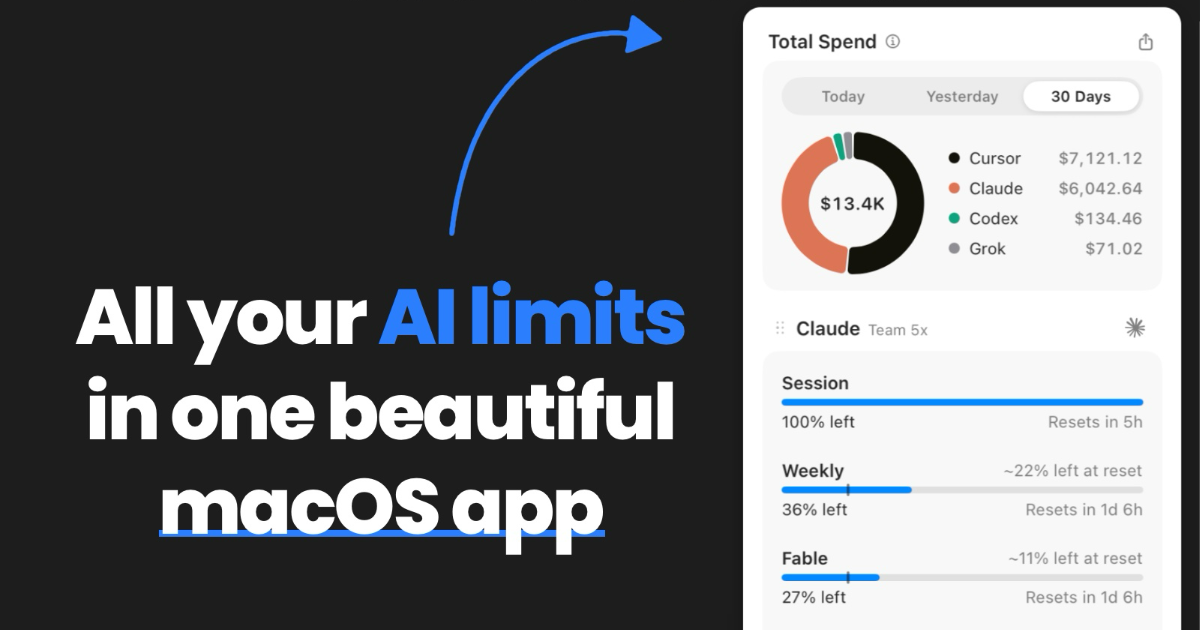
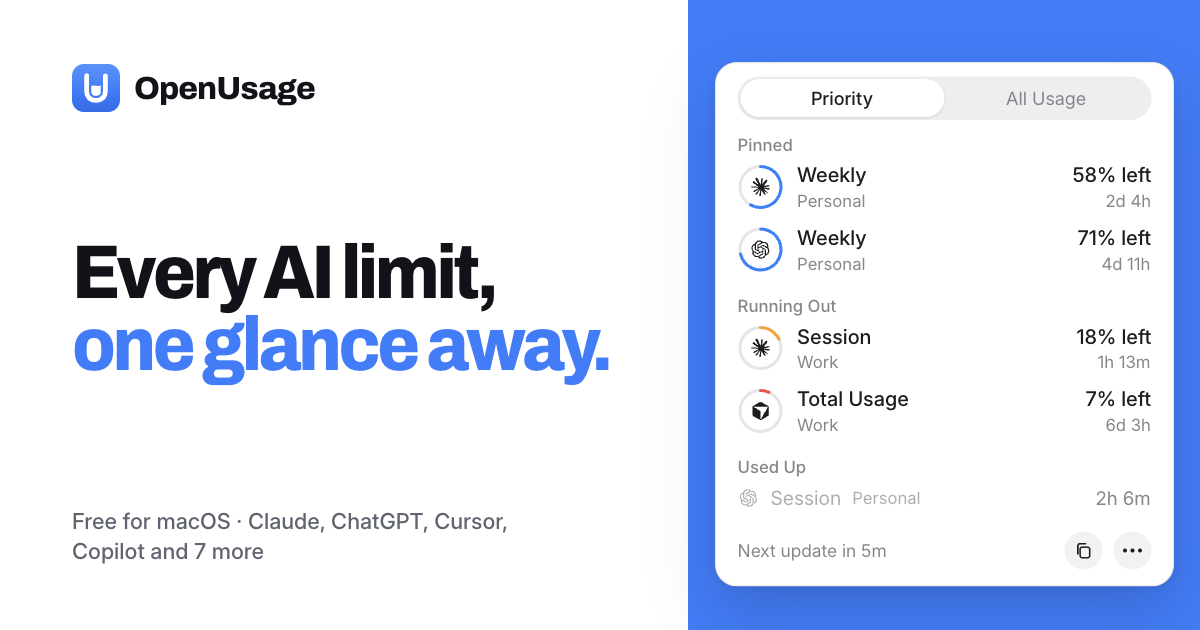
feat: match the site to 0.8.0 (#5)
* feat: match the site to 0.8.0

New OG and Twitter image, favicon and footer logo with the new app icon, features rewritten for 0.8.0, and the CLI section without the removed local API.

* fix: correct two feature claims

* refactor: apply review trims

Drop the unused align prop, focus the video in play(), inline AppMark, share one external constant, and stop exporting Release.

---------

diff --git a/app/page.tsx b/app/page.tsx
@@ -6,8 +6,8 @@ import { TrackedLink } from "@/components/tracked-link";
 import { DownloadButtons } from "@/components/download-buttons";
 import { ApiExample } from "@/components/api-example";
 import { Maintainers } from "@/components/maintainers";
-import { Logo, Marker, Tint } from "@/components/brand";
-import { cn } from "@/lib/utils";
+import { AppLogo, Marker, Tint } from "@/components/brand";
+import { cn, external } from "@/lib/utils";
 import { secondaryButtonClass } from "@/lib/button-styles";
 import {
   RELEASES_URL,
@@ -21,28 +21,28 @@ import {
 
 const FEATURES = [
   {
-    title: "Total Spend at a glance",
-    body: "See what Claude, Codex, Cursor and Grok cost today, yesterday or over 30 days, all in one ring.",
+    title: "What's running out, first",
+    body: "Priority lists the limits running low, soonest to run out at your pace first, then what's used up and which accounts need you.",
   },
   {
-    title: "Know before you run out",
-    body: "Pace markers and flame warnings tell you when you're burning too fast, and exactly when you'll hit the wall.",
-  },
-  {
-    title: "Pinned to your menu bar",
-    body: "Star up to two metrics per provider. Just look up and know where you stand.",
+    title: "Right in your menu bar",
+    body: "The limits closest to running out sit in the menu bar on their own, up to five. Just look up and know where you stand.",
   },
   {
     title: "Arranged your way",
-    body: "Turn providers and metrics on or off, drag them into order, and tuck the rest behind a tap.",
+    body: "Pin the metrics you care about, hide the rest, and drag accounts and metrics into your order.",
   },
   {
-    title: "Every account, every Mac",
-    body: "Track several Claude and Codex accounts side by side, with usage history synced over iCloud.",
+    title: "Every account, side by side",
+    body: "Add every Claude, ChatGPT or Cursor account you pay for, personal and work, and give each one a name.",
   },
   {
-    title: "No login, no leaks",
-    body: "It reads the credentials already on your Mac, and hides your numbers while you share your screen.",
+    title: "A heads-up before you run out",
+    body: "Get a notification when a limit drops under 30% left, and hover a bar to see where your pace lands at reset.",
+  },
+  {
+    title: "Your keys stay yours",
+    body: "Sign in to each account inside the app. OpenUsage never reads other tools' credentials, and it can hide your usage from the menu bar while you share your screen.",
   },
 ];
 
@@ -52,8 +52,6 @@ const FOOTER_LINKS = [
   { event: "footer_twitter_clicked", href: "https://itsbyrob.in/x", label: "X" },
   { event: "footer_newsletter_clicked", href: "https://robinebers.com", label: "Newsletter" },
 ];
-
-const external = { target: "_blank", rel: "noopener noreferrer" } as const;
 
 export default async function Home() {
   const [stable, beta, contributors] = await Promise.all([
@@ -99,7 +97,7 @@ export default async function Home() {
         </div>
       </section>
 
-      {/* ── Local API + CLI ── */}
+      {/* ── CLI ── */}
       <section className="border-t border-line px-gutter py-[clamp(56px,7vw,88px)]">
         <div className="mx-auto grid max-w-[1240px] overflow-hidden rounded-[20px] border border-line lg:grid-cols-[1fr_1.1fr]">
           <div className="flex flex-col gap-5 border-b border-line p-[clamp(28px,4vw,56px)] lg:border-r lg:border-b-0">
@@ -109,15 +107,12 @@ export default async function Home() {
             <p className="text-pretty text-[clamp(17px,1.8vw,20px)] leading-normal">
               Think of it like a weather station. OpenUsage does all the
               measuring. Your status line, your editor, your agents? They just
-              read the forecast through a <Tint>local API</Tint> or the{" "}
-              <Tint>openusage</Tint> command. No tokens, no auth, no setup.
+              read the forecast with the <Tint>openusage</Tint> command, as JSON.
+              No tokens, no network calls.
             </p>
             <div className="mt-auto flex flex-col gap-1.5 font-mono text-[14px]">
               <p>
-                <span className="text-muted">$ </span>curl{" "}
-                <a href="http://localhost:6736/v1/limits" {...external} className="underline decoration-line underline-offset-4 hover:text-brand">
-                  localhost:6736/v1/limits
-                </a>
+                <span className="text-muted">$ </span>openusage
               </p>
               <p>
                 <span className="text-muted">$ </span>openusage claude
@@ -169,7 +164,7 @@ export default async function Home() {
             <Marker>by surprise.</Marker>
           </h2>
           <div className="flex w-full max-w-xl flex-col items-center gap-3.5">
-            <DownloadButtons eventPrefix="cta" align="center" {...downloads} />
+            <DownloadButtons eventPrefix="cta" {...downloads} />
             <p className="text-[15px] text-muted">
               Requires macOS 15+
               {downloads.stableVersion ? <> &middot; v{downloads.stableVersion}</> : null} &middot; MIT License
@@ -180,7 +175,7 @@ export default async function Home() {
 
       {/* ── Footer ── */}
       <footer className="flex flex-col items-center gap-3.5 border-t border-line px-gutter py-8 text-sm font-medium text-muted">
-        <Logo className="text-[17px] text-ink" />
+        <AppLogo />
         <div className="flex flex-wrap justify-center gap-x-6 gap-y-2.5">
           {FOOTER_LINKS.map((link) => (
             <TrackedLink key={link.label} event={link.event} href={link.href} {...external} className="hover:text-brand">

diff --git a/components/brand.tsx b/components/brand.tsx
@@ -1,14 +1,4 @@
-import { GaugeIcon, OpenUsageIcon } from "@/lib/icons";
-import { cn } from "@/lib/utils";
-
-export function Logo({ className }: { className?: string }) {
-  return (
-    <span className={cn("inline-flex items-center gap-2", className)}>
-      <GaugeIcon className="h-[1.15em] w-[1.15em] text-brand" />
-      <span className="font-extrabold tracking-[-.03em]">OpenUsage</span>
-    </span>
-  );
-}
+import { OpenUsageIcon } from "@/lib/icons";
 
 /** Marker band behind a headline phrase. */
 export function Marker({ children }: { children: React.ReactNode }) {
@@ -24,24 +14,13 @@ export function Tint({ children }: { children: React.ReactNode }) {
   );
 }
 
-/** The app icon: white mark on the OpenUsage blue squircle. */
-export function AppMark({ className }: { className?: string }) {
-  return (
-    <span
-      className={cn(
-        "inline-flex shrink-0 items-center justify-center rounded-[26%] bg-linear-to-b from-[#4A93FF] via-ou-blue to-[#1F6BEB] text-white",
-        className
-      )}
-    >
-      <OpenUsageIcon className="size-[66%]" />
-    </span>
-  );
-}
-
+/** The app icon (white mark on the OpenUsage blue squircle) and the wordmark. */
 export function AppLogo() {
   return (
     <span className="inline-flex items-center gap-2.5 text-ink">
-      <AppMark className="size-[26px] md:size-[30px]" />
+      <span className="inline-flex size-[26px] shrink-0 items-center justify-center rounded-[26%] bg-linear-to-b from-[#4A93FF] via-ou-blue to-[#1F6BEB] text-white md:size-[30px]">
+        <OpenUsageIcon className="size-[66%]" />
+      </span>
       <span className="text-[19px] font-extrabold tracking-[-.03em] md:text-[21px]">OpenUsage</span>
     </span>
   );

diff --git a/lib/icons.tsx b/lib/icons.tsx
@@ -203,14 +203,6 @@ export function AppleIcon(props: IconProps) {
   );
 }
 
-export function GaugeIcon(props: IconProps) {
-  return (
-    <svg viewBox="0 0 24 24" fill="currentColor" {...props}>
-      <path d="M12 2C17.5228 2 22 6.47715 22 12C22 17.5228 17.5228 22 12 22C6.47715 22 2 17.5228 2 12C2 6.47715 6.47715 2 12 2ZM12 4C7.58172 4 4 7.58172 4 12C4 16.4183 7.58172 20 12 20C16.4183 20 20 16.4183 20 12C20 7.58172 16.4183 4 12 4ZM15.8329 7.33748C16.0697 7.17128 16.3916 7.19926 16.5962 7.40381C16.8002 7.60784 16.8267 7.92955 16.6587 8.16418C14.479 11.2095 13.2796 12.8417 13.0607 13.0607C12.4749 13.6464 11.5251 13.6464 10.9393 13.0607C10.3536 12.4749 10.3536 11.5251 10.9393 10.9393C11.3126 10.5661 12.9438 9.36549 15.8329 7.33748ZM17.5 11C18.0523 11 18.5 11.4477 18.5 12C18.5 12.5523 18.0523 13 17.5 13C16.9477 13 16.5 12.5523 16.5 12C16.5 11.4477 16.9477 11 17.5 11ZM6.5 11C7.05228 11 7.5 11.4477 7.5 12C7.5 12.5523 7.05228 13 6.5 13C5.94772 13 5.5 12.5523 5.5 12C5.5 11.4477 5.94772 11 6.5 11ZM8.81802 7.40381C9.20854 7.79433 9.20854 8.4275 8.81802 8.81802C8.4275 9.20854 7.79433 9.20854 7.40381 8.81802C7.01328 8.4275 7.01328 7.79433 7.40381 7.40381C7.79433 7.01328 8.4275 7.01328 8.81802 7.40381ZM12 5.5C12.5523 5.5 13 5.94772 13 6.5C13 7.05228 12.5523 7.5 12 7.5C11.4477 7.5 11 7.05228 11 6.5C11 5.94772 11.4477 5.5 12 5.5Z" />
-    </svg>
-  );
-}
-
 /** The OpenUsage app mark (the "U" gauge from the app icon). */
 export function OpenUsageIcon(props: IconProps) {
   return (

diff --git a/components/download-buttons.tsx b/components/download-buttons.tsx
@@ -9,8 +9,6 @@ interface DownloadButtonsProps {
   stableVersion: string | null;
   betaUrl: string;
   betaVersion: string | null;
-  /** Hero is left-aligned; the bottom CTA is centered. */
-  align?: "start" | "center";
   /** Differentiates analytics events between placements (e.g. "hero", "cta"). */
   eventPrefix: string;
 }
@@ -20,17 +18,10 @@ export function DownloadButtons({
   stableVersion,
   betaUrl,
   betaVersion,
-  align = "start",
   eventPrefix,
 }: DownloadButtonsProps) {
-  const centered = align === "center";
   return (
-    <div
-      className={cn(
-        "flex w-full flex-col items-stretch gap-2.5 sm:flex-row sm:items-center sm:gap-3",
-        centered && "sm:justify-center"
-      )}
-    >
+    <div className="flex w-full flex-col items-stretch gap-2.5 sm:flex-row sm:items-center sm:justify-center sm:gap-3">
       {/* Primary: latest stable */}
       <a
         href={stableUrl}

diff --git a/lib/plugins.ts b/lib/plugins.ts
@@ -21,12 +21,11 @@ export interface Plugin {
 
 /**
  * Providers OpenUsage currently tracks, in the Swift app's `ProviderCatalog`
- * order. `brandColor` follows the app's `TotalSpendPalette` (light mode);
- * providers missing from it use their near-black mark.
+ * order. `brandColor` is the colour of each provider's mark.
  */
 export const plugins: Plugin[] = [
   { id: "claude",      name: "Claude",      brandColor: "#DE7356", Icon: ClaudeIcon },
-  { id: "codex",       name: "Codex",       brandColor: "#10A37F", Icon: CodexIcon },
+  { id: "codex",       name: "ChatGPT",     brandColor: "#10A37F", Icon: CodexIcon },
   { id: "cursor",      name: "Cursor",      brandColor: "#13120A", Icon: CursorIcon },
   { id: "antigravity", name: "Antigravity", brandColor: "#4285F4", Icon: AntigravityIcon },
   { id: "copilot",     name: "Copilot",     brandColor: "#A855F7", Icon: CopilotIcon },

diff --git a/components/api-example.tsx b/components/api-example.tsx
@@ -40,25 +40,25 @@ function highlightJson(json: string) {
 }
 
 const response = `{
-  "schema": "openusage.limits.v1",
+  "schema": "openusage.limits.v2",
   "providers": {
-    "claude": {
-      "displayName": "Claude",
-      "plan": "Team 5x",
+    "claude@4f2a9c1e": {
+      "displayName": "Claude · Personal",
+      "plan": "Max",
+      "fetchedAt": "2026-11-04T09:41:00.000Z",
       "stale": false,
       "resources": {
         "weekly": {
           "kind": "consumption",
           "unit": "percent",
-          "used": 64,
+          "used": 42,
           "limit": 100,
-          "remaining": 36,
-          "resetsAt": "2026-09-26T15:00:00.000Z"
+          "remaining": 58,
+          "resetsAt": "2026-11-06T13:00:00.000Z"
         }
       }
     }
-  },
-  "errors": []
+  }
 }`;
 
 const highlighted = highlightJson(response);

diff --git a/components/trailer.tsx b/components/trailer.tsx
@@ -1,6 +1,6 @@
 "use client";
 
-import { useEffect, useRef, useState } from "react";
+import { useRef, useState } from "react";
 import { track } from "@vercel/analytics";
 
 /** AV1 first (about 40% smaller at the same quality), H.264 as the fallback. 1080p on
@@ -80,13 +80,9 @@ export function Trailer() {
   const [started, setStarted] = useState(false);
   const [playing, setPlaying] = useState(false);
 
-  // The play button unmounts on start, so hand keyboard focus to the video.
-  useEffect(() => {
-    if (started) videoRef.current?.focus();
-  }, [started]);
-
   function play() {
     setStarted(true);
+    videoRef.current?.focus();
     videoRef.current?.play().catch((error) => console.error("Trailer playback failed", error));
     track("hero_trailer_played");
   }

diff --git a/components/hero-content.tsx b/components/hero-content.tsx
@@ -5,6 +5,7 @@ import { focusRing } from "@/lib/button-styles";
 import { CopyCommand } from "@/components/copy-command";
 import { TrackedLink } from "@/components/tracked-link";
 import { Trailer } from "@/components/trailer";
+import { external } from "@/lib/utils";
 
 interface HeroContentProps {
   stableUrl: string;
@@ -13,7 +14,6 @@ interface HeroContentProps {
   newInUrl: string;
 }
 
-const external = { target: "_blank", rel: "noopener noreferrer" } as const;
 const NAMED_PROVIDERS = 4;
 
 export function HeroContent({ stableUrl, stableVersion, newInUrl }: HeroContentProps) {

diff --git a/components/site-nav.tsx b/components/site-nav.tsx
@@ -3,8 +3,8 @@ import { AppLogo } from "@/components/brand";
 import { TrackedLink } from "@/components/tracked-link";
 import { RELEASES_URL, REPO_URL } from "@/lib/github";
 import { focusRing } from "@/lib/button-styles";
+import { external } from "@/lib/utils";
 
-const external = { target: "_blank", rel: "noopener noreferrer" } as const;
 const link = `rounded-[4px] text-[16px] font-medium text-subtle transition-colors hover:text-ink max-md:hidden ${focusRing}`;
 
 export function SiteNav({ downloadUrl }: { downloadUrl: string }) {

diff --git a/lib/utils.ts b/lib/utils.ts
@@ -4,3 +4,5 @@ import { twMerge } from "tailwind-merge"
 export function cn(...inputs: ClassValue[]) {
   return twMerge(clsx(inputs))
 }
+
+export const external = { target: "_blank", rel: "noopener noreferrer" } as const

diff --git a/lib/github.ts b/lib/github.ts
@@ -21,7 +21,7 @@ export interface Contributor {
   contributions: number;
 }
 
-export interface Release {
+interface Release {
   version: string;
   url: string;
 }
